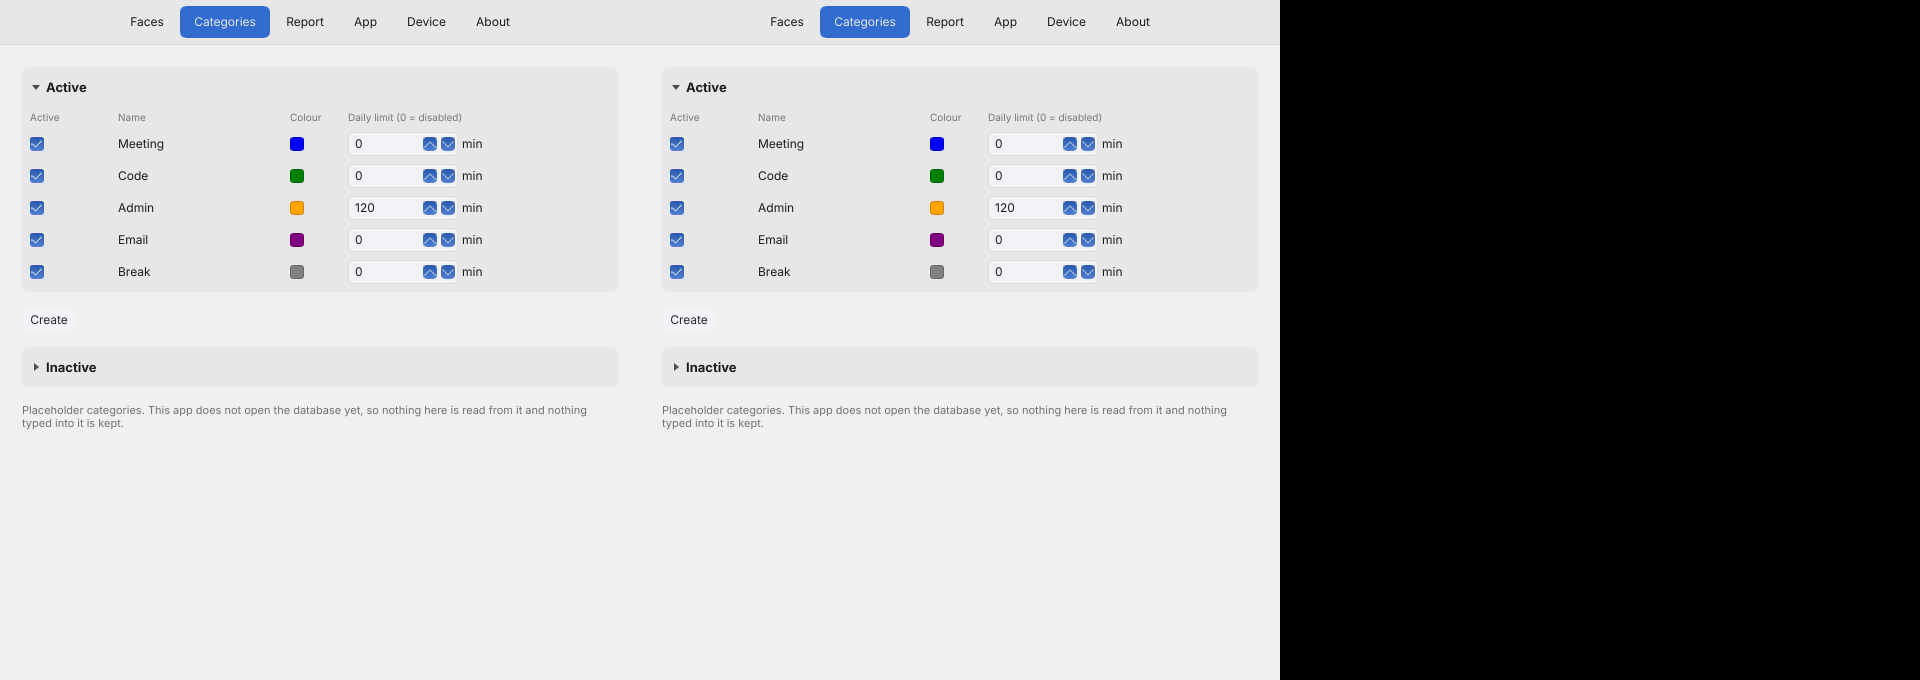
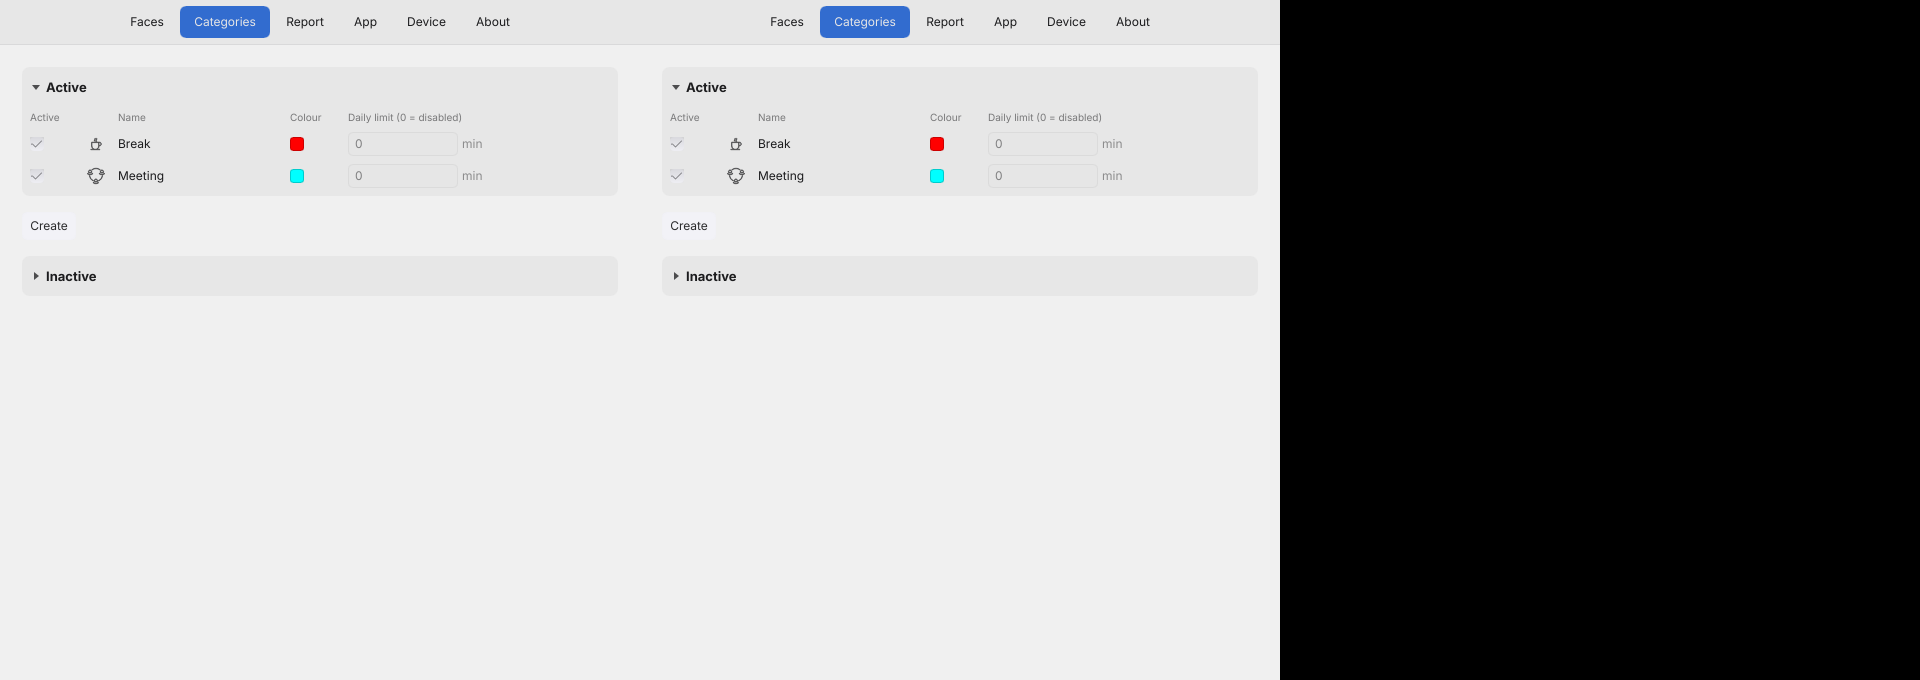
handover-linux 14.2: the Categories tab renders byte-identical on Linux
Rebuilt test.sqlite with switch-database.sh test -clean and ran
draw-settings-tabs against it on feature/catergoryTab. All six PNGs
match mac/ at e5992ef byte for byte, so the Categories tab's icons,
disabled checkbox and stepper rasterise the same on both machines.
Against the old linux/ set only 2-categories.png changed. compare/
rebuilt: every diff panel empty, 0 pixels differing on every tab.

diff --git a/docs/settings-tabs/README.md b/docs/settings-tabs/README.md
@@ -34,9 +34,9 @@ reproduce.
 
 | | |
 |---|---|
-| [`linux/`](linux/) | Linux Mint 22.3, MATE 1.26.1, X11, `x86_64`. Rendered 2026-09-25 on `feature/faceTab` at `b9991f5`, against a clean test database |
+| [`linux/`](linux/) | Linux Mint 22.3, MATE 1.26.1, X11, `x86_64`. Rendered 2026-09-25 on `feature/catergoryTab` at `4f7690c`, against a clean test database. `2-categories.png` is the Categories tab read from the database; the other five came out byte-identical to the set before |
 | [`mac/`](mac/) | macOS 26.6.2, Apple silicon, `arm64`. Rendered 2026-09-25 on `feature/catergoryTab` at `e5992ef`, against a clean test database. `2-categories.png` is the Categories tab read from the database; the other five are unchanged |
-| [`compare/`](compare/) | One image per tab: Mac, Linux, and the pixels that differ between them. Rebuilt 2026-09-25 from Mac `3c2ac11` and Linux `b9991f5`; every diff panel is empty, and all six PNGs, `1-faces.png` with its rasterised SVG icons included, are byte-identical across the two machines **Stale for `2-categories.png`** until `linux/` is re-rendered on `feature/catergoryTab` |
+| [`compare/`](compare/) | One image per tab: Mac, Linux, and the pixels that differ between them. Rebuilt 2026-09-25 from Mac `e5992ef` and Linux `4f7690c`; every diff panel is empty, and all six PNGs are byte-identical across the two machines, `2-categories.png` with its icons, disabled checkbox and stepper included |
 
 **These are Slint's software renderer, not screenshots of the running app.** It draws into a buffer with
 no window server involved, so window chrome and compositing are out of the comparison.
